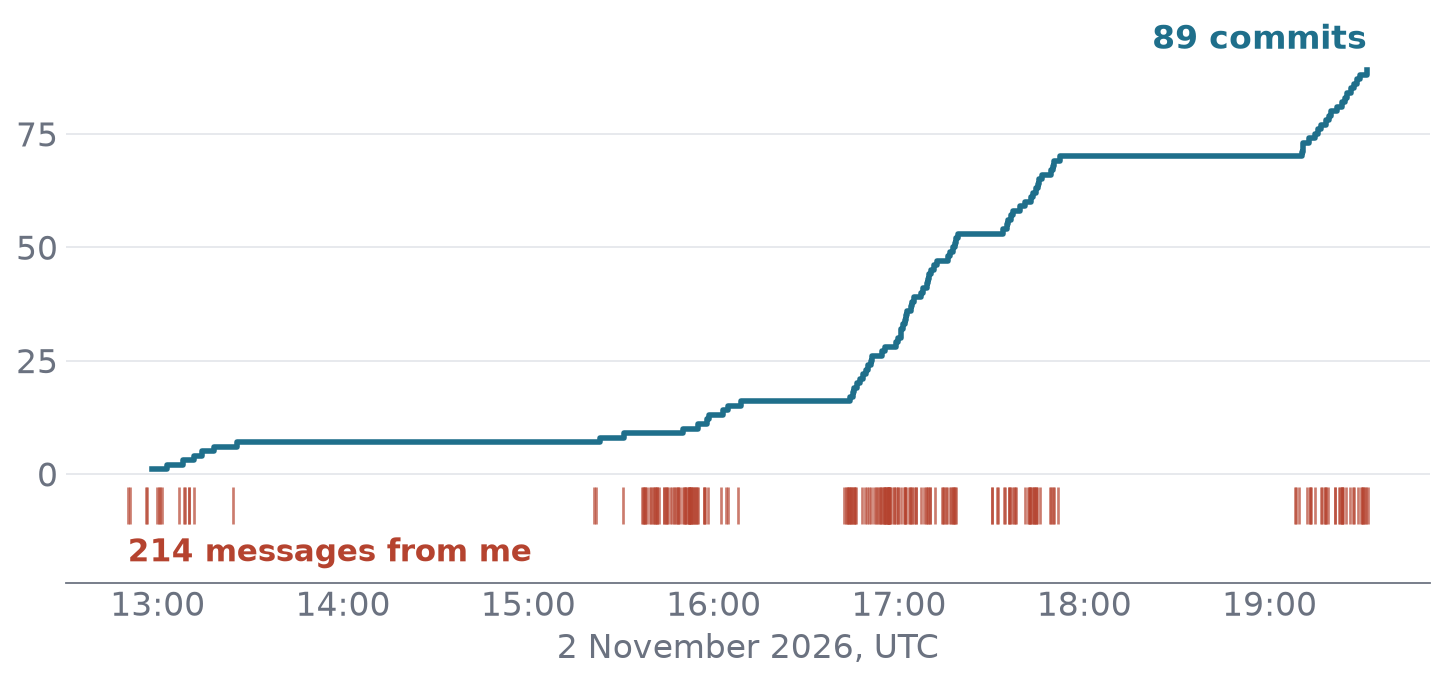
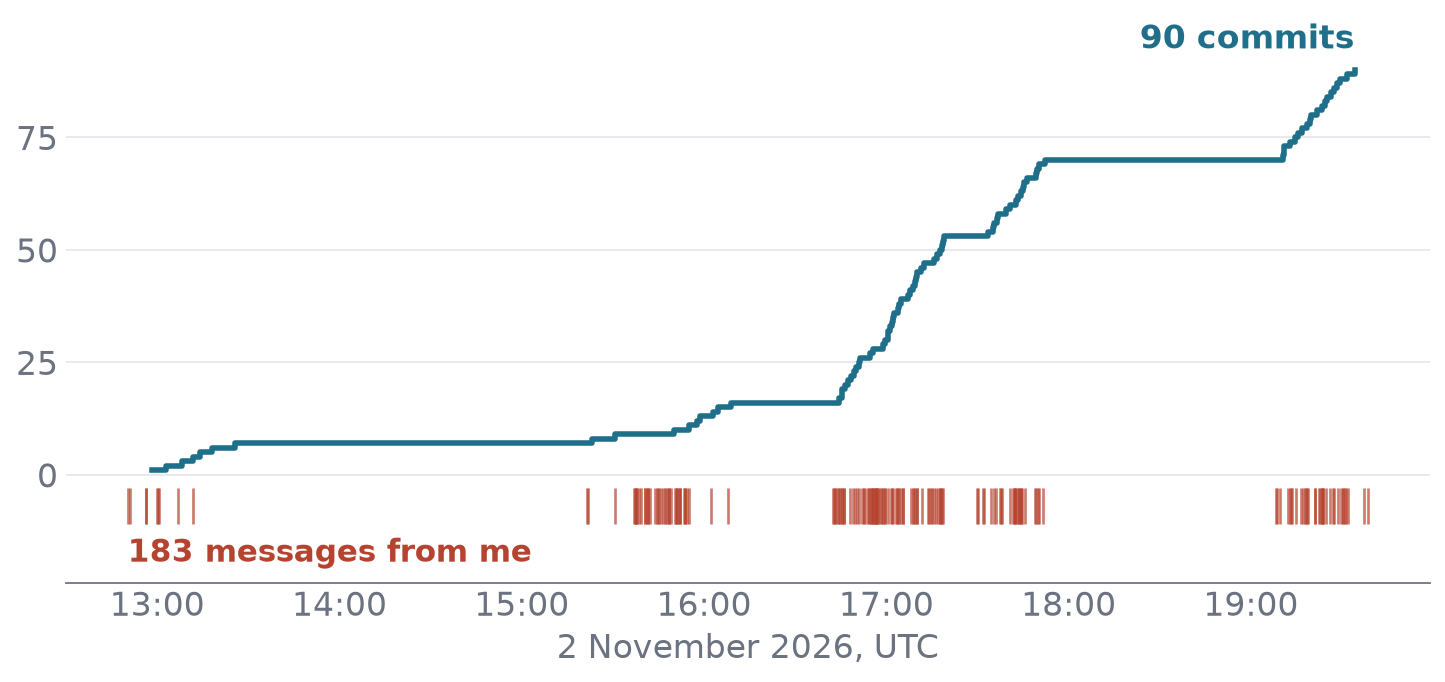
feat: social video script; count only messages I typed

diff --git a/scripts/social-video.py b/scripts/social-video.py
@@ -1,0 +1,231 @@
+#!/usr/bin/env -S uv run --with matplotlib --with pillow --script
+"""A short video of the deck for social media.
+
+Usage:
+    ./scripts/social-video.py
+
+The finished slides flip through on the left. On the right, the build
+plays back: a clock, commits climbing, and my steers popping up as they
+were sent. Long breaks are skipped. Ends on the how-it-was-built slide.
+Needs ffmpeg, _shots/ from "task slides" and notes/build-timeline.csv.
+Writes _social/agents-deck.mp4 and _social/agents-deck.gif.
+"""
+
+import csv
+import shutil
+import subprocess
+import textwrap
+from datetime import datetime, timedelta
+from pathlib import Path
+
+import matplotlib
+
+matplotlib.use("Agg")
+import matplotlib.dates as mdates
+import matplotlib.pyplot as plt
+from PIL import Image, ImageDraw, ImageFont
+
+TEAL, SLATE, BRICK, INK, GREY = ("#1f6f8b", "#4a5899", "#b5432f", "#2b2b2b",
+                                 "#6b7280")
+W, H, FPS = 1920, 1080, 25
+PLAY, END = 24.0, 4.0
+FONT = "/usr/share/fonts/truetype/dejavu/DejaVuSans.ttf"
+BOLD = "/usr/share/fonts/truetype/dejavu/DejaVuSans-Bold.ttf"
+OBLIQUE = "/usr/share/fonts/truetype/dejavu/DejaVuSans-Oblique.ttf"
+out = Path("_social")
+frames = out / "frames"
+
+
+def font(path, size):
+    return ImageFont.truetype(path, size)
+
+
+# A selection of my steers, typos corrected, at the time each was sent.
+STEERS = [
+    ("12:50", "We need to make a slide deck for a talk I need to give."),
+    ("12:56", "You can commit to main as we work."),
+    ("13:11", "We are finding it very hard to collaborate in an "
+              "agent-driven environment."),
+    ("15:38", "Challenges, not dangers."),
+    ("15:41", "Have one that highlights what a tool-using LLM actually is."),
+    ("15:44", "What agents do needs a picture of a rubber duck."),
+    ("15:48", "Of course it is all currently very heavily subsidised."),
+    ("15:53", "We don't have anything about how to use the time they "
+              "give us?"),
+    ("16:42", "The abstract is not how a human would write."),
+    ("16:45", "Correct my typos in any copied-in prompts."),
+    ("16:55", "This is good, but the figure is boring."),
+    ("17:11", "Bit dry. Can we have emojis or little pictures?"),
+    ("17:17", "Hmm, the emojis look kind of budget."),
+    ("17:17", "Cut."),
+    ("17:18", "I like them in how to collaborate. Okay, let's keep the "
+              "emojis."),
+    ("17:42", "We need the fire hose image."),
+    ("19:08", "Can we make the title slide a bit more fun?"),
+    ("19:14", "Agents often have a very spiky ability profile."),
+    ("19:21", "Does the Merge and refit box still make sense?"),
+    ("19:31", "Could we have a nice little slide after the thank you?"),
+]
+
+events = {"commit": [], "message": []}
+with open("notes/build-timeline.csv") as f:
+    for row in csv.DictReader(f):
+        events[row["event"]].append(datetime.fromisoformat(row["time_utc"]))
+commits, messages = sorted(events["commit"]), sorted(events["message"])
+day = messages[0].date()
+steers = [(datetime.combine(day, datetime.strptime(t, "%H:%M").time())
+           + timedelta(seconds=30), s) for t, s in STEERS]
+start, stop = messages[0] - timedelta(minutes=2), commits[-1]
+
+# Skip long breaks: playback runs on active time, gaps capped at 2 min.
+marks = sorted(messages + commits)
+knots, acc = [(start, 0.0)], 0.0
+for a, b in zip([start] + marks, marks):
+    acc += min((b - a).total_seconds(), 120)
+    knots.append((b, acc))
+
+
+def session_time(sec):
+    """Session clock time at a playback second."""
+    target = sec / PLAY * acc
+    for (t0, a0), (t1, a1) in zip(knots, knots[1:]):
+        if a1 >= target:
+            frac = 0 if a1 == a0 else (target - a0) / (a1 - a0)
+            return t0 + (t1 - t0) * frac
+    return stop
+
+
+# The build graph, drawn once; frames reveal it up to the clock.
+GW, GH = 600, 330
+plt.rcParams.update({"font.size": 12, "font.family": "DejaVu Sans"})
+fig = plt.figure(figsize=(GW / 100, GH / 100), dpi=100)
+ax = fig.add_axes([0.1, 0.17, 0.87, 0.78])
+ax.step(commits, range(1, len(commits) + 1), where="post", color=TEAL, lw=2.5)
+ax.vlines(messages, -13, -4, color=BRICK, lw=1, alpha=0.7)
+ax.set_xlim(start, stop + timedelta(minutes=4))
+ax.set_ylim(-16, len(commits) + 6)
+ax.set_yticks([0, 25, 50, 75])
+ax.xaxis.set_major_formatter(mdates.DateFormatter("%H:%M"))
+ax.xaxis.set_major_locator(mdates.HourLocator(interval=2))
+ax.grid(axis="y", color="#e5e7eb")
+for side in ("top", "right", "left"):
+    ax.spines[side].set_visible(False)
+ax.spines["bottom"].set_color(GREY)
+ax.tick_params(colors=GREY, length=0)
+fig.canvas.draw()
+graph = Image.frombuffer("RGBA", fig.canvas.get_width_height(),
+                         fig.canvas.buffer_rgba()).convert("RGB")
+x0_plot, y_top = ax.transData.transform((mdates.date2num(start),
+                                         len(commits) + 6))
+_, y_bot = ax.transData.transform((mdates.date2num(start), -16))
+
+
+def gx(t):
+    return ax.transData.transform((mdates.date2num(t), 0))[0]
+
+
+plt.close(fig)
+
+slides = sorted(Path("_shots").glob("slide-*.png"))
+deck, stats_slide = slides[:-1], slides[-1]
+SW, SH = 1180, 664
+thumbs = [Image.open(p).convert("RGB").resize((SW, SH), Image.LANCZOS)
+          for p in deck]
+sam = Image.open("figures/sam.jpg").convert("RGB").resize((56, 56))
+mask = Image.new("L", (56, 56), 0)
+ImageDraw.Draw(mask).ellipse((0, 0, 55, 55), fill=255)
+banner = Image.open("figures/agents-title.png").convert("RGBA")
+banner = banner.resize((420, int(420 * banner.height / banner.width)),
+                       Image.LANCZOS)
+
+
+def bubble(d, img, x, y, text, alpha):
+    lines = textwrap.wrap(text, 40)
+    h = 22 + 30 * len(lines)
+    tint = tuple(int(255 - (255 - c) * alpha) for c in (181, 67, 47))
+    d.rounded_rectangle((x + 70, y, x + 590, y + h), 18, outline=tint,
+                        width=3, fill="white")
+    for k, line in enumerate(lines):
+        d.text((x + 90, y + 12 + 30 * k), line, font=font(OBLIQUE, 22),
+               fill=tint)
+    if alpha > 0.5:
+        img.paste(sam, (x, y + 4), mask)
+    return h
+
+
+def frame(sec):
+    img = Image.new("RGB", (W, H), "white")
+    d = ImageDraw.Draw(img)
+    d.text((60, 48), "AI agents in infectious disease modelling",
+           font=font(BOLD, 46), fill=INK)
+    d.text((60, 112), "Built by agents in one afternoon, steered by me",
+           font=font(FONT, 28), fill=GREY)
+    img.paste(banner, (W - 60 - banner.width, 30), banner)
+    # The finished deck flips through, with a short crossfade.
+    pos = sec / PLAY * len(thumbs)
+    i = min(int(pos), len(thumbs) - 1)
+    fade = min(max((pos - i - 0.85) / 0.15, 0), 1)
+    slide = thumbs[i] if fade == 0 or i + 1 >= len(thumbs) else \
+        Image.blend(thumbs[i], thumbs[i + 1], fade)
+    d.rectangle((52, 202, 60 + SW + 8, 210 + SH + 8), fill="#e5e7eb")
+    img.paste(slide, (56, 206))
+    # The build plays back on the right.
+    now = session_time(sec)
+    rx = 1290
+    d.text((rx, 196), now.strftime("%H:%M"), font=font(BOLD, 64), fill=INK)
+    d.text((rx + 250, 230), "UTC, 2 November", font=font(FONT, 22),
+           fill=GREY)
+    n_c = sum(c <= now for c in commits)
+    n_m = sum(m <= now for m in messages)
+    d.text((rx, 280), f"{n_c} commits", font=font(BOLD, 28), fill=TEAL)
+    d.text((rx + 230, 280), f"{n_m} messages from me", font=font(BOLD, 28),
+           fill=BRICK)
+    g = graph.copy()
+    cut = gx(now)
+    ImageDraw.Draw(g).rectangle((cut + 1, GH - y_top - 2, GW, GH - y_bot + 2),
+                                fill="white")
+    img.paste(g, (rx - 30, 320))
+    # My steers pop up as they were sent, newest first.
+    y = 680
+    shown = [(t, s) for t, s in steers if t <= now][-3:][::-1]
+    for k, (t, s) in enumerate(shown):
+        if y > H - 60:
+            break
+        y += bubble(d, img, rx, y, s, 1.0 if k == 0 else 0.45) + 14
+    return img
+
+
+def end_frame(sec):
+    img = Image.open(stats_slide).convert("RGB").resize((W, H), Image.LANCZOS)
+    d = ImageDraw.Draw(img)
+    d.rectangle((0, H - 90, W, H), fill=TEAL)
+    d.text((60, H - 70), "samabbott.co.uk/HPRUNetworkAgentsandIDM",
+           font=font(BOLD, 40), fill="white")
+    d.text((W - 640, H - 64), "Slides, every prompt, and the code",
+           font=font(FONT, 30), fill="white")
+    return img
+
+
+shutil.rmtree(frames, ignore_errors=True)
+frames.mkdir(parents=True)
+n_play, n_end = int(PLAY * FPS), int(END * FPS)
+last = None
+for k in range(n_play):
+    last = frame(k / FPS)
+    last.save(frames / f"f{k:04d}.png")
+end = end_frame(0)
+for k in range(n_end):
+    blend = min(k / (FPS * 0.6), 1)
+    Image.blend(last, end, blend).save(frames / f"f{n_play + k:04d}.png")
+
+subprocess.run(["ffmpeg", "-y", "-loglevel", "error", "-framerate", str(FPS),
+                "-i", str(frames / "f%04d.png"), "-c:v", "libx264",
+                "-pix_fmt", "yuv420p", "-crf", "20",
+                str(out / "agents-deck.mp4")], check=True)
+subprocess.run(["ffmpeg", "-y", "-loglevel", "error", "-i",
+                str(out / "agents-deck.mp4"), "-vf",
+                "fps=12,scale=960:-1:flags=lanczos,split[a][b];"
+                "[a]palettegen=max_colors=128[p];[b][p]paletteuse=dither=bayer",
+                str(out / "agents-deck.gif")], check=True)
+shutil.rmtree(frames)
+print("wrote _social/agents-deck.mp4 and _social/agents-deck.gif")

diff --git a/scripts/build-timeline-data.py b/scripts/build-timeline-data.py
@@ -1,0 +1,57 @@
+#!/usr/bin/env python3
+"""Export when I sent messages and when commits landed, for the build figures.
+
+Usage:
+    ./scripts/build-timeline-data.py SESSION.jsonl
+
+Reads a Claude Code session log and this repository's git history, and
+writes notes/build-timeline.csv. Only messages I typed count. Subagent
+hand-backs, attached images and skill loads are left out.
+"""
+
+import json
+import re
+import subprocess
+import sys
+
+NOT_MINE = ("[Image", "Another Claude session", "Base directory for this skill",
+            "This session is being continued")
+MID_TURN = re.compile(r"The user sent a new message while you were working:"
+                      r"\\n(.*?)\\n\\nThis is how")
+
+
+def my_messages(path):
+    seen = set()
+    for line in open(path):
+        r = json.loads(line)
+        ts = r.get("timestamp")
+        if r.get("type") == "assistant" or not ts:
+            continue
+        texts = []
+        c = r.get("message", {}).get("content") if r.get("type") == "user" \
+            else None
+        if isinstance(c, str) and not c.startswith("<"):
+            texts.append(c)
+        if isinstance(c, list) and not any(
+                b.get("type") == "tool_result" for b in c):
+            texts += [b["text"] for b in c if b.get("type") == "text"
+                      and not b["text"].startswith("<")]
+        for m in MID_TURN.findall(json.dumps(r)):
+            if m not in seen:
+                seen.add(m)
+                texts.append(json.loads('"' + m + '"'))
+        for t in texts:
+            if not t.startswith(NOT_MINE):
+                yield ts[:19]
+
+
+rows = [(t, "message") for t in my_messages(sys.argv[1])]
+log = subprocess.run(["git", "log", "--format=%cI"], capture_output=True,
+                     text=True, check=True).stdout.split()
+rows += [(t[:19], "commit") for t in log]
+rows.sort()
+with open("notes/build-timeline.csv", "w") as f:
+    f.write("time_utc,event\n")
+    f.writelines(f"{t},{k}\n" for t, k in rows)
+n = sum(k == "message" for _, k in rows)
+print(f"{n} messages, {len(rows) - n} commits")

diff --git a/notes/steers.md b/notes/steers.md
@@ -539,3 +539,7 @@ of the talk plan.
 > Watch caps make sense on titles.
 
 > Could we have a nice little slide after the thank you to summarise this? It is pretty cool, with i.e. quantified details, a summary of prompts etc.
+
+> What is a fun way we can share these on social media? Put them into a GIF, i.e. going through the slides, or something, a collage, other ideas?
+
+> Hmm, something a bit cooler than that? What about a flip through the slides with a graph of making them on the right-hand side or similar, with prompts flashing up, but not showing the in-dev slides?
